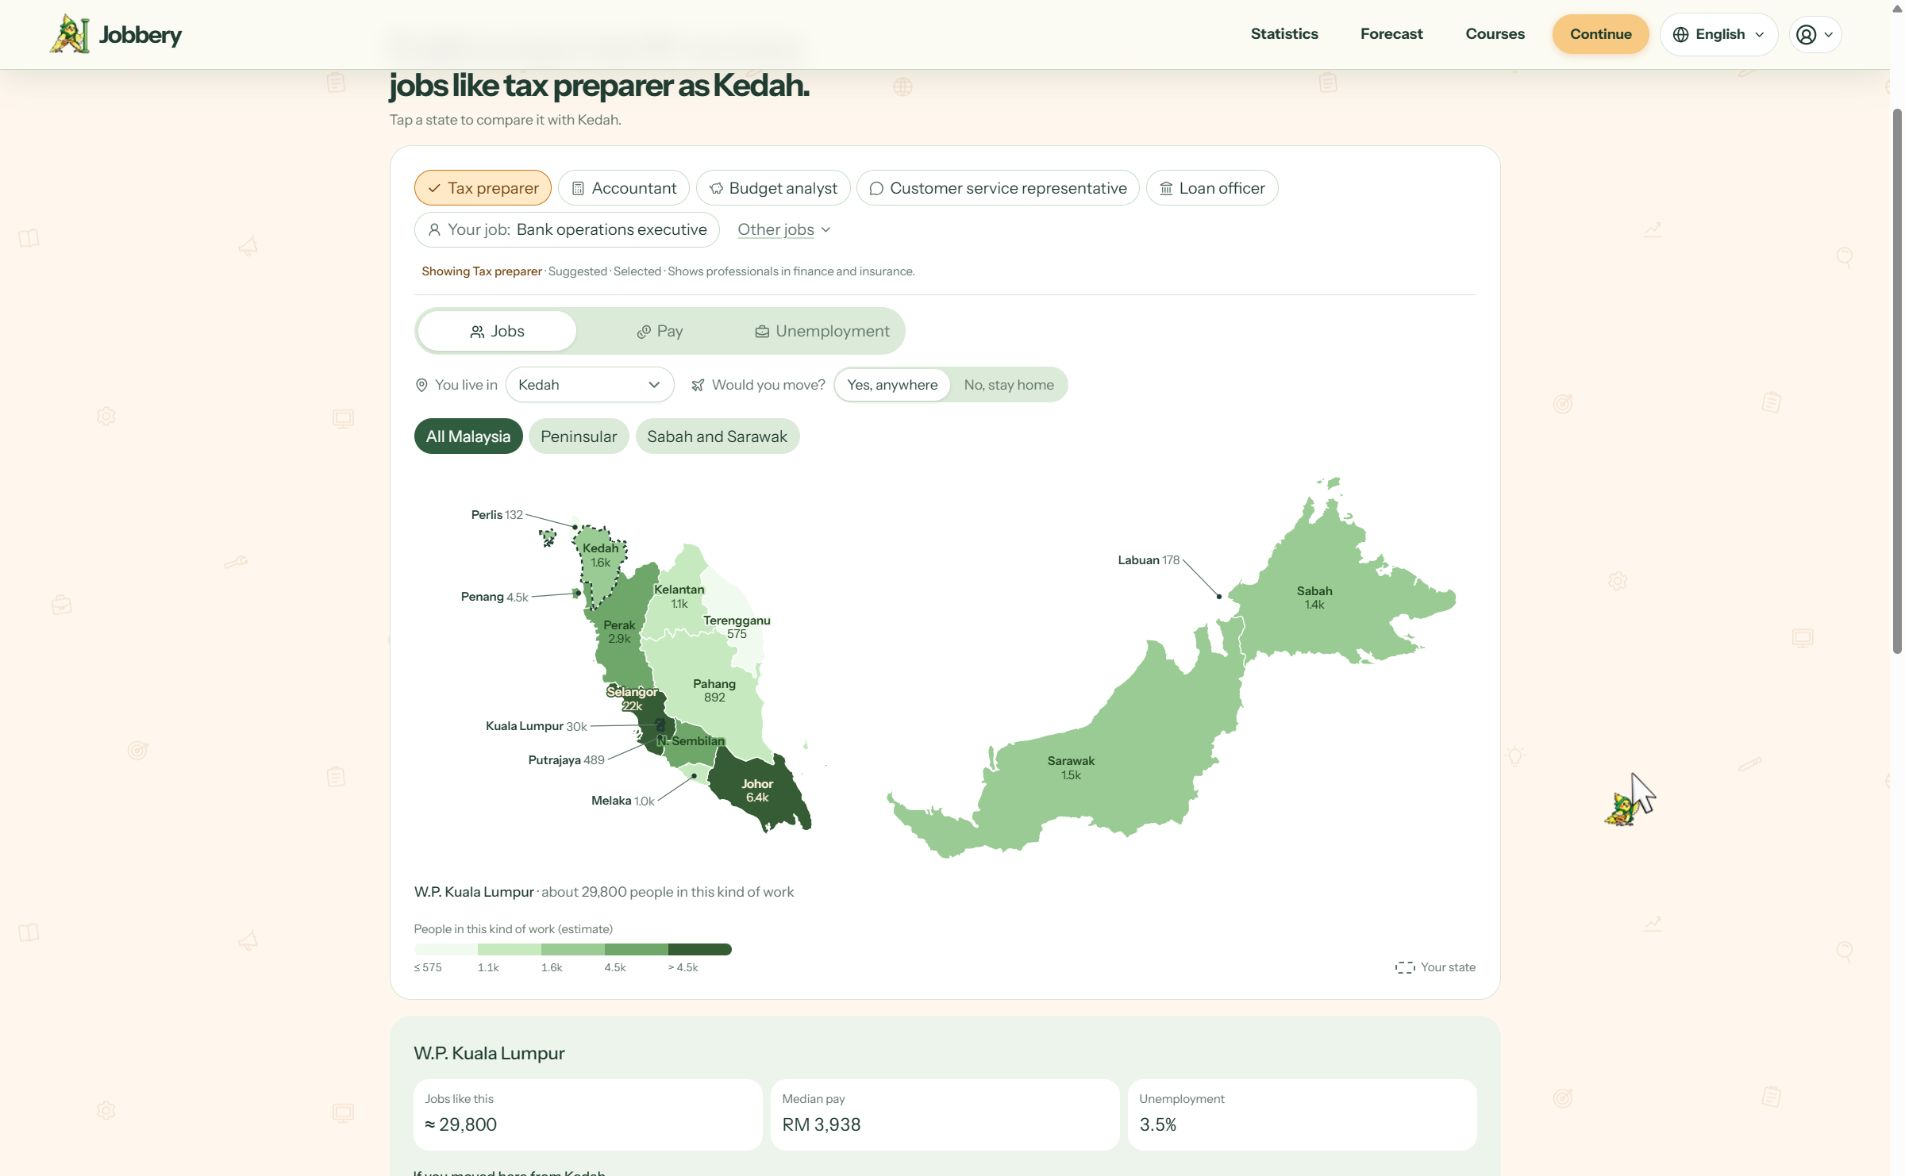
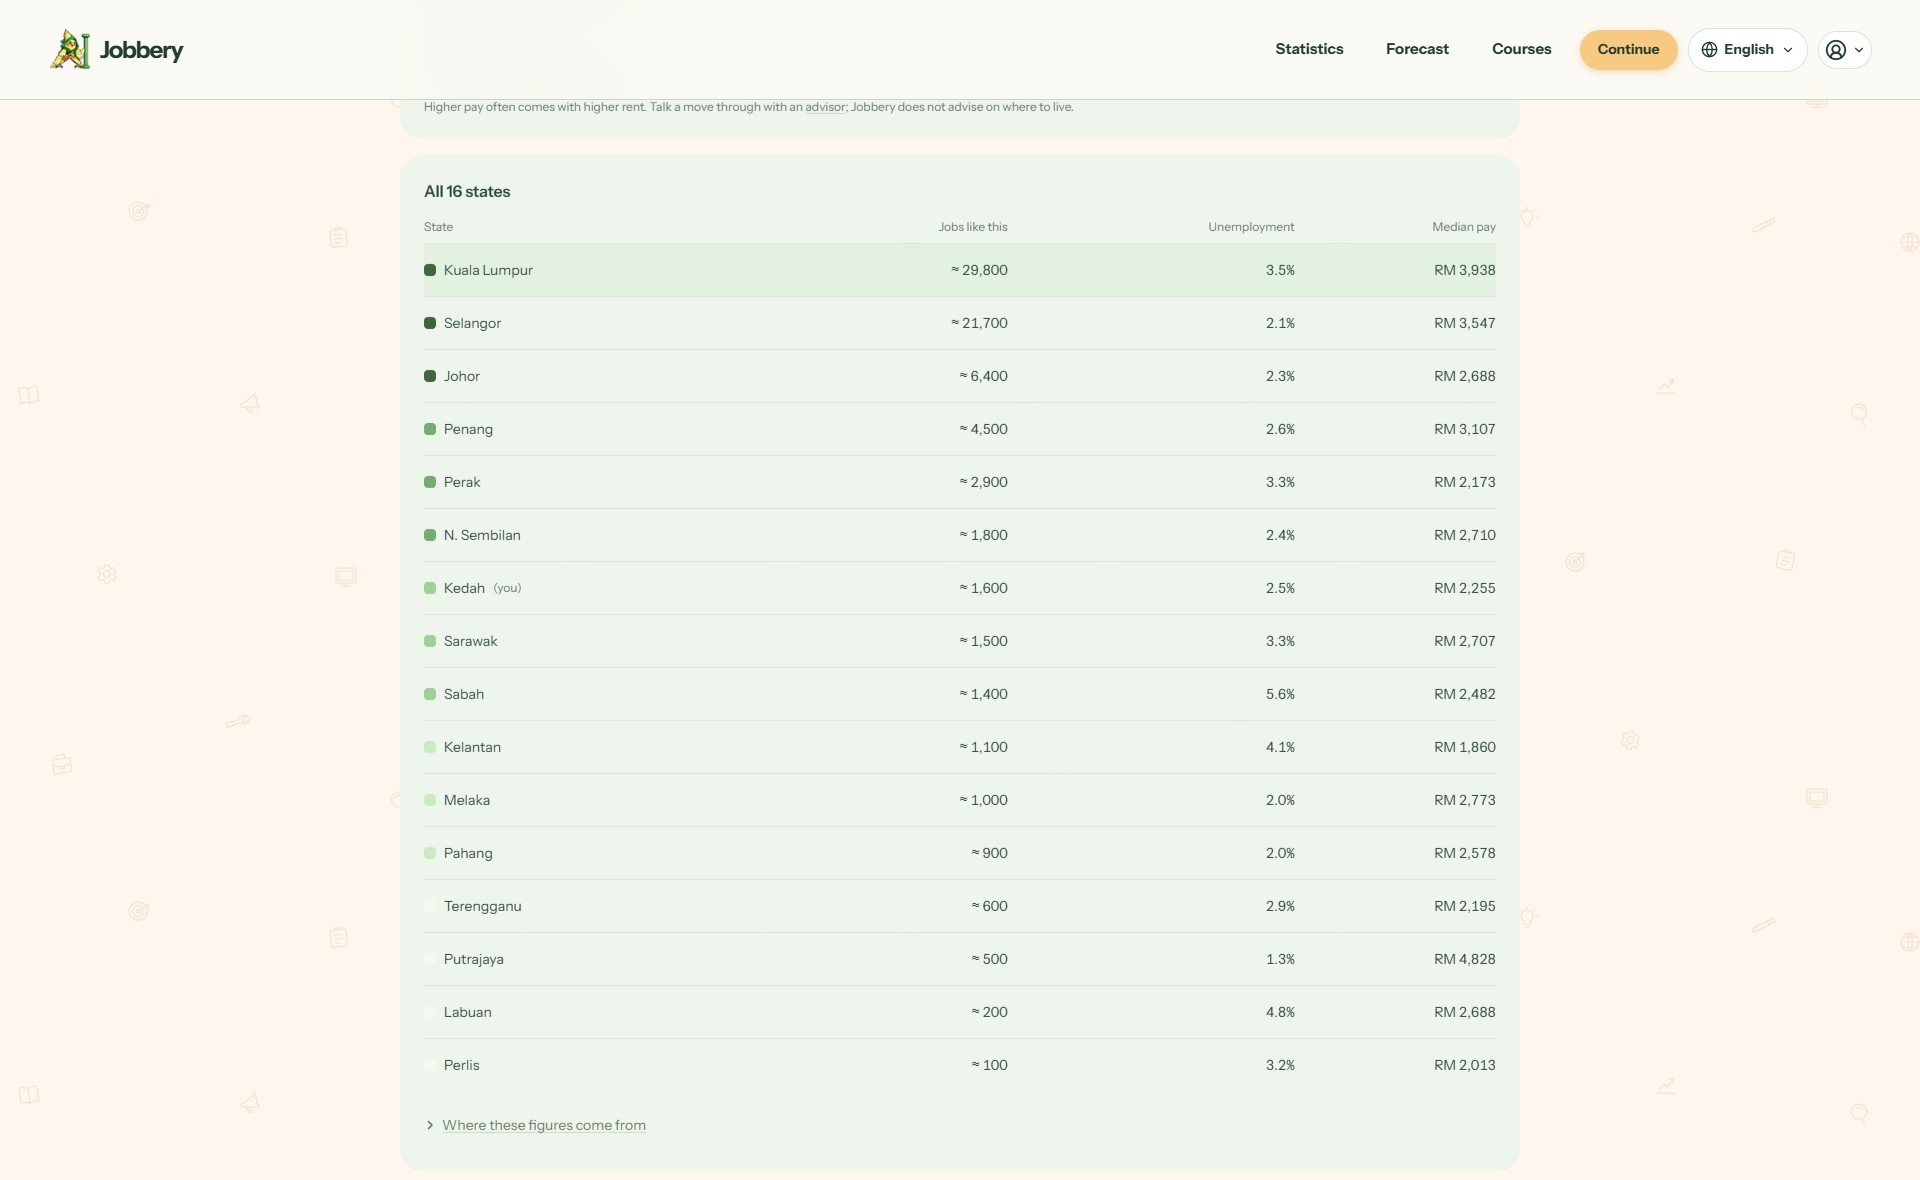
Show all state figures in README map screenshot

diff --git a/README.md b/README.md
@@ -381,9 +381,9 @@ The date shown is the average of the three futures, weighted by how likely each 
 
 *The job map compares estimated employment, state median pay and unemployment across Malaysia.*
 
-![Complete Malaysia map with state labels, legend and comparison figures](jobbery/public/screenshots/map-detail.jpg)
+![All 16 states ranked by estimated jobs with unemployment and median pay](jobbery/public/screenshots/map-detail.jpg)
 
-*The map view shows every state, its legend and the selected state's employment, pay and unemployment figures.*
+*The table below the map lists all 16 states with estimated jobs, unemployment and median pay.*
 
 The **Map** page shows, state by state, where jobs like the one the user picked are found. The map of Malaysia can be dragged and zoomed, with quick views for all of Malaysia, Peninsular Malaysia, Sabah and Sarawak.
 
